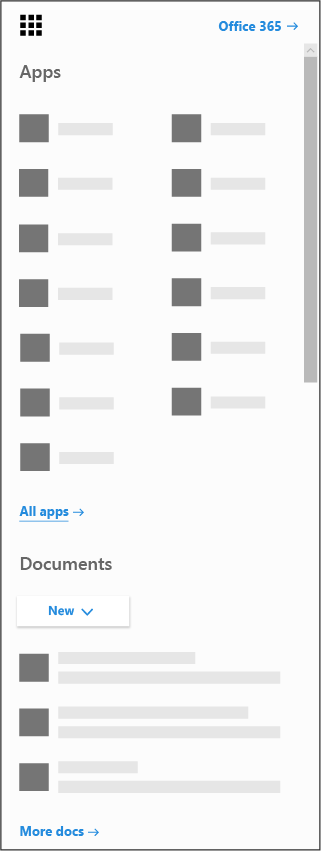
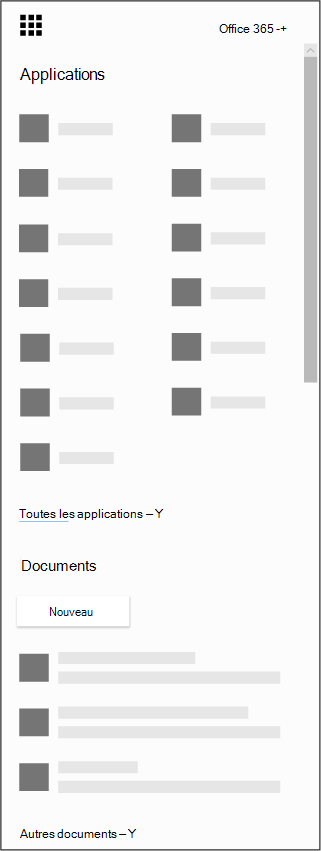
commit translated contents

diff --git a/microsoft-365/enterprise/manage-microsoft-365-groups-with-powershell.md b/microsoft-365/enterprise/manage-microsoft-365-groups-with-powershell.md
@@ -1,5 +1,5 @@
 ---
-title: Gérer Microsoft 365 groupes avec PowerShell
+title: Gérer Groupes Microsoft 365 avec PowerShell
 ms.author: mikeplum
 author: MikePlumleyMSFT
 manager: pamgreen
@@ -23,36 +23,36 @@ search.appverid:
 - BCS160
 ms.assetid: aeb669aa-1770-4537-9de2-a82ac11b0540
 description: Dans cet article, découvrez comment effectuer des tâches de gestion courantes pour Microsoft 365 groupes dans PowerShell.
-ms.openlocfilehash: 460444e1cb2f862f4d96ed6aad0178a146864658
-ms.sourcegitcommit: 355ab75eb7b604c6afbe9a5a1b97ef16a1dec4fc
+ms.openlocfilehash: 407e242728bf37ebf8c11b8094bfa4931229e4ef
+ms.sourcegitcommit: 3226bdf213b290ec5262670873c3a75f17b66ddd
 ms.translationtype: MT
 ms.contentlocale: fr-FR
-ms.lasthandoff: 02/14/2022
-ms.locfileid: "62806443"
+ms.lasthandoff: 05/12/2022
+ms.locfileid: "65372200"
 ---
-# <a name="manage-microsoft-365-groups-with-powershell"></a>Gérer Microsoft 365 groupes avec PowerShell
+# <a name="manage-microsoft-365-groups-with-powershell"></a>Gérer Groupes Microsoft 365 avec PowerShell
 
-*Cet article est valable pour Microsoft 365 Entreprise et Office 365 Entreprise.*
+*Cet article est valable pour Microsoft 365 Entreprise et Office 365 Entreprise.*
 
-Cet article décrit les étapes à suivre pour effectuer des tâches de gestion courantes pour les groupes dans Microsoft PowerShell. Il répertorie également les cmdlets PowerShell pour les groupes. Pour plus d’informations sur la gestion SharePoint sites web, voir [Gérer SharePoint sites en ligne à l’aide de PowerShell](/sharepoint/manage-team-and-communication-sites-in-powershell).
+Cet article décrit les étapes à suivre pour effectuer des tâches de gestion courantes pour les groupes dans Microsoft PowerShell. Il répertorie également les applets de commande PowerShell pour les groupes. Pour plus d’informations sur la gestion des sites SharePoint, consultez [Gérer les sites SharePoint Online à l’aide de PowerShell](/sharepoint/manage-team-and-communication-sites-in-powershell).
 
-## <a name="link-to-your-microsoft-365-groups-usage-guidelines"></a>Lien vers vos recommandations Microsoft 365'utilisation des groupes de sécurité
+## <a name="link-to-your-microsoft-365-groups-usage-guidelines"></a>Lien vers vos instructions d’utilisation de Groupes Microsoft 365
 
-Lorsque les [utilisateurs créent ou modifient un groupe dans Outlook](https://support.office.com/article/04d0c9cf-6864-423c-a380-4fa858f27102.aspx), vous pouvez leur afficher un lien vers les instructions d’utilisation de votre organisation. Par exemple, si vous avez besoin d’ajouter un préfixe ou un suffixe spécifique à un nom de groupe.
+Lorsque les utilisateurs [créent ou modifient un groupe dans Outlook](https://support.office.com/article/04d0c9cf-6864-423c-a380-4fa858f27102.aspx), vous pouvez leur montrer un lien vers les instructions d’utilisation de votre organisation. Par exemple, si vous avez besoin d’ajouter un préfixe ou un suffixe spécifique à un nom de groupe.
 
-Utilisez la Azure Active Directory PowerShell (Azure AD) pour faire pointer vos utilisateurs vers les instructions d’utilisation de votre organisation pour Microsoft 365 groupes. Consultez [Azure Active Directory cmdlets](/azure/active-directory/enterprise-users/groups-settings-cmdlets) pour la configuration des paramètres de groupe et suivez les étapes de la procédure Créer des paramètres au niveau du répertoire pour définir le lien hypertexte des **recommandations** d’utilisation. Une fois que vous avez exécuté AAD cmdlet, les utilisateurs voient le lien vers vos instructions lorsqu’ils créent ou modifient un groupe dans Outlook.
+Utilisez PowerShell Azure Active Directory (Azure AD) pour pointer vos utilisateurs vers les instructions d’utilisation de votre organisation pour Microsoft 365 groupes. Consultez [Azure Active Directory applets de commande pour configurer les paramètres de groupe](/azure/active-directory/enterprise-users/groups-settings-cmdlets) et suivez les **étapes décrites dans les paramètres de création au niveau du répertoire** pour définir le lien hypertexte des instructions d’utilisation. Une fois que vous avez exécuté l’applet de commande AAD, les utilisateurs voient le lien vers vos instructions lorsqu’ils créent ou modifient un groupe dans Outlook.
 
-![Créez un groupe avec le lien Recommandations en matière d’utilisation.](../media/3f74463f-3448-4f24-a0ec-086d9aa95caa.png)
+![Créez un groupe avec le lien des instructions d’utilisation.](../media/3f74463f-3448-4f24-a0ec-086d9aa95caa.png)
 
-![Cliquez sur Recommandations en matière d’utilisation des groupes pour voir vos Office 365 groupes.](../media/d0d54ace-f0ec-4946-b2de-50ce23f17765.png)
+![Cliquez sur Instructions relatives à l’utilisation des groupes pour afficher les instructions de vos organisations Office 365 groupes.](../media/d0d54ace-f0ec-4946-b2de-50ce23f17765.png)
 
-## <a name="allow-users-to-send-as-the-microsoft-365-group"></a>Autoriser les utilisateurs à envoyer en tant que Microsoft 365 groupe
+## <a name="allow-users-to-send-as-the-microsoft-365-group"></a>Autoriser les utilisateurs à envoyer en tant que groupe Microsoft 365
 
-Si vous souhaitez activer vos groupes Microsoft 365 sur « Envoyer en tant que », utilisez les cmdlets [Add-RecipientPermission](/powershell/module/exchange/add-recipientpermission) et [Get-RecipientPermission](/powershell/module/exchange/get-recipientpermission) pour configurer cette configuration. Une fois ce paramètre activé, les Microsoft 365 de groupe peuvent utiliser Outlook ou Outlook sur le web pour envoyer et répondre à des messages électroniques en tant que Microsoft 365 groupe. Les utilisateurs peuvent aller au groupe, créer un e-mail et modifier le champ « Envoyer en tant que » en l’adresse e-mail du groupe.
+Si vous souhaitez autoriser vos groupes Microsoft 365 à « Envoyer sous », utilisez les applets de [commande Add-RecipientPermission](/powershell/module/exchange/add-recipientpermission) et [Get-RecipientPermission](/powershell/module/exchange/get-recipientpermission) pour configurer cela. Une fois ce paramètre activé, Microsoft 365 utilisateurs du groupe peuvent utiliser Outlook ou Outlook sur le web pour envoyer et répondre à un e-mail en tant que groupe Microsoft 365. Les utilisateurs peuvent accéder au groupe, créer un e-mail et remplacer le champ « Envoyer sous » par l’adresse e-mail du groupe.
 
-([Vous pouvez également le faire dans le Exchange Admin Center](/office365/admin/create-groups/allow-members-to-send-as-or-send-on-behalf-of-group).)
+([Vous pouvez également le faire dans le centre d’administration Exchange](/office365/admin/create-groups/allow-members-to-send-as-or-send-on-behalf-of-group).)
 
-Utilisez le script suivant, *\<GroupAlias\>* en remplaçant par l’alias du groupe que vous souhaitez mettre à jour, *\<UserAlias\>* et par l’alias de l’utilisateur auquel vous souhaitez accorder des autorisations. [Connecter à Exchange Online PowerShell pour](/powershell/exchange/connect-to-exchange-online-powershell) exécuter ce script.
+Utilisez le script suivant, en *\<GroupAlias\>* remplaçant par l’alias du groupe à mettre à jour et *\<UserAlias\>* par l’alias de l’utilisateur auquel vous souhaitez accorder des autorisations. [Connecter à Exchange Online PowerShell](/powershell/exchange/connect-to-exchange-online-powershell) pour exécuter ce script.
 
 ```PowerShell
 $groupAlias = "<GroupAlias>"
@@ -62,30 +62,30 @@ $groupsRecipientDetails = Get-Recipient -RecipientTypeDetails groupmailbox -Iden
 Add-RecipientPermission -Identity $groupsRecipientDetails.Name -Trustee $userAlias -AccessRights SendAs
 ```
 
-Une fois la cmdlet exécutée, les utilisateurs peuvent passer à Outlook ou Outlook sur le web pour envoyer en tant que groupe, en ajoutant l’adresse e-mail du groupe au champ  De.
+Une fois l’applet de commande exécutée, les utilisateurs peuvent accéder à Outlook ou Outlook sur le web pour envoyer en tant que groupe, en ajoutant l’adresse e-mail du groupe au champ **From**.
 
-## <a name="create-classifications-for-microsoft-365-groups-in-your-organization"></a>Créer des classifications pour Microsoft 365 groupes de votre organisation
+## <a name="create-classifications-for-microsoft-365-groups-in-your-organization"></a>Créer des classifications pour Groupes Microsoft 365 dans votre organisation
 
-Vous pouvez créer des étiquettes de niveau de sensibilité que les utilisateurs de votre organisation peuvent définir lorsqu’ils créent un Microsoft 365 de données. Si vous souhaitez classer des groupes, nous vous recommandons d’utiliser des étiquettes de niveau de sensibilité plutôt que la fonctionnalité de classification des groupes précédente. Pour plus d’informations sur l’utilisation d’étiquettes de niveau de sensibilité, voir Utiliser des étiquettes de niveau de Microsoft Teams, Microsoft 365 groupes et SharePoint [sites.](../compliance/sensitivity-labels-teams-groups-sites.md)
+Vous pouvez créer des étiquettes de confidentialité que les utilisateurs de votre organisation peuvent définir lorsqu’ils créent un groupe Microsoft 365. Si vous souhaitez classifier des groupes, nous vous recommandons d’utiliser des étiquettes de confidentialité au lieu de la fonctionnalité de classification des groupes précédente. Pour plus d’informations sur l’utilisation d’étiquettes de confidentialité, consultez [Utiliser des étiquettes de confidentialité pour protéger le contenu dans Microsoft Teams, les groupes Microsoft 365 et les sites SharePoint](../compliance/sensitivity-labels-teams-groups-sites.md).
 
 > [!IMPORTANT]
-> Si vous utilisez actuellement des étiquettes de classification, elles ne seront plus disponibles pour les utilisateurs qui créent des groupes une fois les étiquettes de niveau de sensibilité activées.
+> Si vous utilisez actuellement des étiquettes de classification, elles ne seront plus disponibles pour les utilisateurs qui créent des groupes une fois les étiquettes de confidentialité activées.
 
-Vous pouvez toujours utiliser la fonctionnalité de classification de groupes précédente. Vous pouvez créer des classifications que les utilisateurs de votre organisation peuvent définir lorsqu’ils créent Microsoft 365 groupe. Par exemple, vous pouvez autoriser les utilisateurs à définir « Standard », « Secret » et « Top Secret » sur les groupes qu’ils créent. Les classifications de groupe ne sont pas définies par défaut et vous devez la créer pour que vos utilisateurs la définissent. Utilisez Azure Active Directory PowerShell pour faire pointer vos utilisateurs vers les instructions d’utilisation de votre organisation pour Microsoft 365 groupes.
+Vous pouvez toujours utiliser la fonctionnalité de classification des groupes précédents. Vous pouvez créer des classifications que les utilisateurs de votre organisation peuvent définir lorsqu’ils créent un groupe Microsoft 365. Par exemple, vous pouvez autoriser les utilisateurs à définir « Standard », « Secret » et « Top Secret » sur les groupes qu’ils créent. Les classifications de groupe ne sont pas définies par défaut et vous devez la créer pour que vos utilisateurs le définissent. Utilisez Azure Active Directory PowerShell pour pointer vos utilisateurs vers les instructions d’utilisation de votre organisation pour Groupes Microsoft 365.
 
-Consultez [Azure Active Directory cmdlets](/azure/active-directory/users-groups-roles/groups-settings-cmdlets) pour la configuration des paramètres de groupe et suivez les étapes de la procédure Créer des **paramètres** au niveau du répertoire pour définir la classification des groupes Microsoft 365 de groupe.
+Consultez [Azure Active Directory applets de commande pour configurer les paramètres de groupe](/azure/active-directory/users-groups-roles/groups-settings-cmdlets) et suivez les **étapes décrites dans les paramètres de création au niveau du répertoire** pour définir la classification pour Groupes Microsoft 365.
 
 ```powershell
 $setting["ClassificationList"] = "Low Impact, Medium Impact, High Impact"
 ```
 
-Pour associer une description à chaque classification, vous pouvez utiliser l’attribut paramètres  *ClassificationDescriptions* pour définir.
+Pour associer une description à chaque classification, vous pouvez utiliser les attributs de paramètre  *ClassificationDescriptions* à définir.
 
 ```powershell
 $setting["ClassificationDescriptions"] ="Classification:Description,Classification:Description"
 ```
 
-Où Classification correspond aux chaînes dans ClassificationList.
+Où classification correspond aux chaînes dans classificationList.
 
 Exemple :
 
@@ -93,105 +93,111 @@ Exemple :
 $setting["ClassificationDescriptions"] = "Low Impact: General communication, Medium Impact: Company internal data , High Impact: Data that has regulatory requirements"
 ```
 
-Après avoir exécuté l’Azure Active Directory cmdlet ci-dessus pour définir votre classification, exécutez la cmdlet [Set-UnifiedGroup](/powershell/module/exchange/Set-UnifiedGroup) si vous souhaitez définir la classification pour un groupe spécifique.
+Après avoir exécuté l’applet de commande Azure Active Directory ci-dessus pour définir votre classification, exécutez l’applet [de commande Set-UnifiedGroup](/powershell/module/exchange/Set-UnifiedGroup) si vous souhaitez définir la classification pour un groupe spécifique.
 
 ```powershell
 Set-UnifiedGroup <LowImpactGroup@constoso.com> -Classification <LowImpact>
 ```
 
-Vous pouvez également créer un groupe avec une classification.
+Ou créez un groupe avec une classification.
 
 ```powershell
 New-UnifiedGroup <HighImpactGroup@constoso.com> -Classification <HighImpact> -AccessType <Public>
 ```
 
-Consultez [l’utilisation de PowerShell Exchange Online](/powershell/exchange/exchange-online-powershell) et [Connecter pour Exchange Online PowerShell](/powershell/exchange/connect-to-exchange-online-powershell) pour plus d’informations sur l’utilisation Exchange Online PowerShell.
+Pour plus d’informations sur l’utilisation de Exchange Online PowerShell, consultez [l’utilisation de PowerShell avec Exchange Online](/powershell/exchange/exchange-online-powershell) et [Connecter pour Exchange Online PowerShell](/powershell/exchange/connect-to-exchange-online-powershell).
 
-Une fois ces paramètres activés, le propriétaire du groupe peut choisir une classification dans le menu déroulant dans Outlook sur le Web et Outlook, puis l’enregistrer à partir de la page Modifier le groupe.
+Une fois ces paramètres activés, le propriétaire du groupe peut choisir une classification dans le menu déroulant dans Outlook sur le web et Outlook, puis l’enregistrer à partir de la page **Modifier** le groupe.
 
 ![Choisissez Microsoft 365 classification de groupe.](../media/f8d4219a-6180-491d-b0e1-4313ac83998b.png)
 
-## <a name="hide-microsoft-365-groups-from-the-global-address-list"></a>Masquez Microsoft 365 de la liste d’adresses globale.
+## <a name="hide-microsoft-365-groups-from-the-global-address-list"></a>Masquez Groupes Microsoft 365 de la liste d’adresses globale.
 
-Vous pouvez spécifier si un groupe Microsoft 365 apparaît dans la liste d’adresses globale (LAL) et dans d’autres listes de votre organisation. Par exemple, si vous avez un groupe de services juridiques que vous ne souhaitez pas afficher dans la liste d’adresses, vous pouvez empêcher ce groupe d’apparaître dans la liste d’adresses. Exécutez la cmdlet Set-Unified groupe pour masquer le groupe dans la liste d’adresses comme ceci :
+Vous pouvez spécifier si un groupe Microsoft 365 apparaît dans la liste d’adresses globale (GAL) et d’autres listes de votre organisation. Par exemple, si vous avez un groupe de services juridiques que vous ne souhaitez pas afficher dans la liste d’adresses, vous pouvez empêcher ce groupe d’apparaître dans la liste d’adresses. Exécutez l’applet de commande Set-Unified Group pour masquer le groupe de la liste d’adresses comme suit :
 
 ```powershell
 Set-UnifiedGroup -Identity "Legal Department" -HiddenFromAddressListsEnabled $true
 ```
 
-## <a name="allow-only-internal-users-to-send-message-to-microsoft-365-groups"></a>Autoriser uniquement les utilisateurs internes à envoyer des messages à Microsoft 365 groupes
+## <a name="allow-only-internal-users-to-send-message-to-microsoft-365-groups"></a>Autoriser uniquement les utilisateurs internes à envoyer des messages à Groupes Microsoft 365
 
-Si vous ne souhaitez pas que les utilisateurs d’autres organisations envoient des courriers électroniques à un groupe Microsoft 365, vous pouvez modifier les paramètres de ce groupe. Il permet uniquement aux utilisateurs internes d’envoyer un courrier électronique à votre groupe. Si un utilisateur externe tente d’envoyer un message à ce groupe, il est rejeté.
+Si vous ne souhaitez pas que les utilisateurs d’autres organisations envoient des e-mails à un groupe Microsoft 365, vous pouvez modifier les paramètres de ce groupe. Il autorise uniquement les utilisateurs internes à envoyer un e-mail à votre groupe. Si un utilisateur externe tente d’envoyer un message à ce groupe, il est rejeté.
 
-Exécutez lSet-UnifiedGroup cmdlet pour mettre à jour ce paramètre, comme ceci :
+Exécutez l’applet de commande Set-UnifiedGroup pour mettre à jour ce paramètre, comme suit :
 
 ```powershell
 Set-UnifiedGroup -Identity "Internal senders only" -RequireSenderAuthenticationEnabled $true
 ```
 
-## <a name="add-mailtips-to-microsoft-365-groups"></a>Ajouter des mailTips à Microsoft 365 groupes
+## <a name="add-mailtips-to-microsoft-365-groups"></a>Ajouter des info-bulles à Groupes Microsoft 365
 
-Chaque fois qu’un expéditeur tente d’envoyer un message électronique à un groupe Microsoft 365, une boîte aux lettres peut s’affiche.
+Chaque fois qu’un expéditeur tente d’envoyer un e-mail à un groupe Microsoft 365, une info-bulle peut lui être affichée.
 
-Exécutez la cmdlet Set-Unified groupe pour ajouter une mailTip au groupe :
+Exécutez l’applet de commande Set-Unified Group pour ajouter une info-bulle au groupe :
 
 ```powershell
 Set-UnifiedGroup -Identity "MailTip Group" -MailTip "This group has a MailTip"
 ```
 
-En plus de l’tip de courrier, vous pouvez également définir mailTipTranslations, qui spécifient d’autres langues pour l’mailTip. Supposons que vous vouliez avoir la traduction espagnole, puis exécutez la commande suivante :
+Avec MailTip, vous pouvez également définir MailTipTranslations, qui spécifient d’autres langues pour l’info-bulle. Supposons que vous souhaitiez avoir la traduction en espagnol, puis exécutez la commande suivante :
 
 ```powershell
 Set-UnifiedGroup -Identity "MailaTip Group" -MailTip "This group has a MailTip" -MailTipTranslations "@{Add="ES:Esta caja no se supervisa."
 ```
 
-## <a name="change-the-display-name-of-the-microsoft-365-group"></a>Modifier le nom complet du groupe de Microsoft 365
+## <a name="change-the-display-name-of-the-microsoft-365-group"></a>Modifier le nom d’affichage du groupe Microsoft 365
 
-Le nom complet spécifie le nom du groupe Microsoft 365 groupe. Vous pouvez voir ce nom dans votre centre <a href="https://go.microsoft.com/fwlink/p/?linkid=2059104" target="_blank">d’administration Exchange ou</a> dans <a href="https://go.microsoft.com/fwlink/p/?linkid=2024339" target="_blank">votre Centre d'administration Microsoft 365</a>. Vous pouvez modifier le nom complet du groupe ou attribuer un nom complet à un groupe Microsoft 365 existant en exécutant la commande Set-UnifiedGroup:
+Le nom complet spécifie le nom du groupe Microsoft 365. Vous pouvez voir ce nom dans votre <a href="https://go.microsoft.com/fwlink/p/?linkid=2059104" target="_blank">centre d’administration ou</a> <a href="https://go.microsoft.com/fwlink/p/?linkid=2024339" target="_blank">Centre d'administration Microsoft 365</a> Exchange. Vous pouvez modifier le nom d’affichage du groupe ou attribuer un nom d’affichage à un groupe Microsoft 365 existant en exécutant la commande Set-UnifiedGroup :
 
 ```powershell
 Set-UnifiedGroup -Identity "mygroup@contoso.com" -DisplayName "My new group"
 ```
 
-## <a name="change-the-default-setting-of-microsoft-365-groups-for-outlook-to-public-or-private"></a>Modifier le paramètre par défaut de Microsoft 365 groupes pour Outlook public ou privé
+## <a name="change-the-default-setting-of-microsoft-365-groups-for-outlook-to-public-or-private"></a>Modifier le paramètre par défaut de Groupes Microsoft 365 pour Outlook en public ou privé
 
-Microsoft 365 groupes dans Outlook sont créés comme privés par défaut. Si votre organisation souhaite créer Microsoft 365 groupes publics par défaut (ou de nouveau en privé), utilisez la syntaxe de l’cmdlet PowerShell suivante :
+Groupes Microsoft 365 dans Outlook sont créées comme privées par défaut. Si votre organisation souhaite que Groupes Microsoft 365 soit créé en tant que public par défaut (ou revenir à Private), utilisez la syntaxe de l’applet de commande PowerShell :
 
- `Set-OrganizationConfig -DefaultGroupAccessType Public`
+ ```powershell
+ Set-OrganizationConfig -DefaultGroupAccessType Public
+ ```
 
 Pour définir sur Privé :
 
- `Set-OrganizationConfig -DefaultGroupAccessType Private`
+ ```powershell
+ Set-OrganizationConfig -DefaultGroupAccessType Private
+ ```
 
 Pour vérifier le paramètre :
 
- `Get-OrganizationConfig | ft DefaultGroupAccessType`
+ ```powershell
+ Get-OrganizationConfig | ft DefaultGroupAccessType
+ ```
 
-Pour plus d’informations, [voir Set-OrganizationConfig](/powershell/module/exchange/set-organizationconfig) et [Get-OrganizationConfig](/powershell/module/exchange/get-organizationconfig).
+Pour plus d’informations, consultez [Set-OrganizationConfig](/powershell/module/exchange/set-organizationconfig) et [Get-OrganizationConfig](/powershell/module/exchange/get-organizationconfig).
 
-## <a name="microsoft-365-groups-cmdlets"></a>Microsoft 365 cmdlets de groupes
+## <a name="microsoft-365-groups-cmdlets"></a>applets de commande Groupes Microsoft 365
 
-Les cmdlets suivantes peuvent être utilisées avec Microsoft 365 groupes.
+Les applets de commande suivantes peuvent être utilisées avec Groupes Microsoft 365.
 
 |**Nom de l'applet de commande**|**Description**|
 |:-----|:-----|
-|[Get-UnifiedGroup](/powershell/module/exchange/get-unifiedgroup) <br/> |Utilisez cette cmdlet pour rechercher des groupes Microsoft 365 existants et pour afficher les propriétés de l’objet groupe  <br/> |
+|[Get-UnifiedGroup](/powershell/module/exchange/get-unifiedgroup) <br/> |Utilisez cette applet de commande pour rechercher des Groupes Microsoft 365 existants et afficher les propriétés de l’objet de groupe  <br/> |
 |[Set-UnifiedGroup](/powershell/module/exchange/set-unifiedgroup) <br/> |Mettre à jour les propriétés d’un groupe Microsoft 365 spécifique  <br/> |
-|[New-UnifiedGroup](/powershell/module/exchange/new-unifiedgroup) <br/> |Créez un groupe Microsoft 365'équipe. Cette cmdlet fournit un ensemble minimal de paramètres. Pour définir des valeurs pour les propriétés étendues, utilisez Set-UnifiedGroup après la création du nouveau groupe  <br/> |
+|[New-UnifiedGroup](/powershell/module/exchange/new-unifiedgroup) <br/> |Créez un groupe Microsoft 365. Cette applet de commande fournit un ensemble minimal de paramètres. Pour définir des valeurs pour les propriétés étendues, utilisez Set-UnifiedGroup après la création du groupe  <br/> |
 |[Remove-UnifiedGroup](/powershell/module/exchange/remove-unifiedgroup) <br/> |Supprimer un groupe de Microsoft 365 existant  <br/> |
-|[Get-UnifiedGroupLinks](/powershell/module/exchange/get-unifiedgrouplinks) <br/> |Récupérer les informations d’appartenance et de propriétaire d’Microsoft 365 groupe  <br/> |
+|[Get-UnifiedGroupLinks](/powershell/module/exchange/get-unifiedgrouplinks) <br/> |Récupérer les informations d’appartenance et de propriétaire d’un groupe Microsoft 365  <br/> |
 |[Add-UnifiedGroupLinks](/powershell/module/exchange/add-unifiedgrouplinks) <br/> |Ajouter des membres, des propriétaires et des abonnés à un groupe Microsoft 365 existant <br/> |
-|[Remove-UnifiedGroupLinks](/powershell/module/exchange/remove-unifiedgrouplinks) <br/> |Supprimer des propriétaires et des membres d’un groupe Microsoft 365 existant  <br/> |
-|[Get-UserPhoto](/powershell/module/exchange/get-userphoto) <br/> |Utilisé pour afficher les informations sur la photo de l’utilisateur associée à un compte. Les photos de l’utilisateur sont stockées dans Active Directory  <br/> |
-|[Set-UserPhoto](/powershell/module/exchange/set-userphoto) <br/> |Utilisé pour associer une photo d’utilisateur à un compte. Les photos de l’utilisateur sont stockées dans Active Directory  <br/> |
-|[Remove-UserPhoto](/powershell/module/exchange/remove-userphoto) <br/> |Supprimer la photo d’un groupe Microsoft 365 de recherche  <br/> |
+|[Remove-UnifiedGroupLinks](/powershell/module/exchange/remove-unifiedgrouplinks) <br/> |Supprimer des propriétaires et des membres d’un groupe de Microsoft 365 existant  <br/> |
+|[Get-UserPhoto](/powershell/module/exchange/get-userphoto) <br/> |Permet d’afficher des informations sur la photo d’utilisateur associée à un compte. Les photos des utilisateurs sont stockées dans Active Directory  <br/> |
+|[Set-UserPhoto](/powershell/module/exchange/set-userphoto) <br/> |Permet d’associer une photo d’utilisateur à un compte. Les photos des utilisateurs sont stockées dans Active Directory  <br/> |
+|[Remove-UserPhoto](/powershell/module/exchange/remove-userphoto) <br/> |Supprimer la photo d’un groupe Microsoft 365  <br/> |
 
 ## <a name="related-topics"></a>Voir aussi
 
-[Mettre à niveau les listes de distribution Microsoft 365 groupes](/office365/admin/manage/upgrade-distribution-lists)
+[Mettre à niveau les listes de distribution vers Groupes Microsoft 365](/office365/admin/manage/upgrade-distribution-lists)
 
 [Gérer les personnes autorisées à créer des groupes Microsoft 365](/office365/admin/create-groups/manage-creation-of-groups)
 
-[Gérer l’accès invité à Microsoft 365 groupes](https://support.office.com/article/bfc7a840-868f-4fd6-a390-f347bf51aff6)
+[Gérer l’accès invité à Groupes Microsoft 365](https://support.office.com/article/bfc7a840-868f-4fd6-a390-f347bf51aff6)
 
-[Modifier l’appartenance à un groupe statique en dynamique dans](/azure/active-directory/users-groups-roles/groups-change-type)
+[Modifier l’appartenance à un groupe statique en mode dynamique](/azure/active-directory/users-groups-roles/groups-change-type)

diff --git a/microsoft-365/security/defender-endpoint/corelight-integration.md b/microsoft-365/security/defender-endpoint/corelight-integration.md
@@ -16,18 +16,18 @@ audience: ITPro
 ms.collection: M365-security-compliance
 ms.topic: article
 ms.technology: mde
-ms.openlocfilehash: a3d7548dc71c3a9d588d2a77fae5c4ed71f139f4
-ms.sourcegitcommit: 4cd8be7c22d29100478dce225dce3bcdce52644d
+ms.openlocfilehash: 629d475c160d5836d155ca0374630ad64b0928b4
+ms.sourcegitcommit: 3226bdf213b290ec5262670873c3a75f17b66ddd
 ms.translationtype: MT
 ms.contentlocale: fr-FR
-ms.lasthandoff: 05/10/2022
-ms.locfileid: "65302314"
+ms.lasthandoff: 05/12/2022
+ms.locfileid: "65372018"
 ---
 # <a name="enable-corelight-data-integration"></a>Permettre l'intégration des données Corelight
 
 [!INCLUDE [Microsoft 365 Defender rebranding](../../includes/microsoft-defender.md)]
 
-**S’applique à :**
+**S’applique à :**
 
 - [Microsoft Defender pour point de terminaison](https://go.microsoft.com/fwlink/?linkid=2154037)
 - [Microsoft 365 Defender](https://go.microsoft.com/fwlink/?linkid=2118804)
@@ -67,7 +67,7 @@ Pour activer l’intégration de Corelight, vous devez effectuer les étapes sui
 ### <a name="step-3-configure-your-corelight-appliance-to-send-data-to-microsoft-365-defender"></a>Étape 3 : Configurer votre appliance Corelight pour envoyer des données à Microsoft 365 Defender
 
 > [!NOTE]
-> L’intégration est disponible dans corelight Sensor software v24 et versions ultérieures.
+> L’intégration est disponible dans corelight Sensor software v25 et versions ultérieures.
 > 
 > Vous aurez besoin d’une connectivité Internet pour que votre capteur atteigne les services cloud Defender et Corelight pour que la solution fonctionne.
 

diff --git a/microsoft-365/bookings/bookings-in-outlook.md b/microsoft-365/bookings/bookings-in-outlook.md
@@ -9,12 +9,12 @@ ms.service: bookings
 ms.localizationpriority: medium
 ROBOTS: NO INDEX, NO FOLLOW
 description: Utilisez Bookings dans Outlook pour permettre à d’autres personnes de planifier des réunions avec vous dans Outlook.
-ms.openlocfilehash: 9f8e1c4428133dce6f6ec9e539464271abfd8ffd
-ms.sourcegitcommit: 35d0c891f3d927f3346044be61ab9f348e8da2b4
+ms.openlocfilehash: fe7a680ec5980ab1526d4ccb5f80514210bc3605
+ms.sourcegitcommit: 3226bdf213b290ec5262670873c3a75f17b66ddd
 ms.translationtype: MT
 ms.contentlocale: fr-FR
 ms.lasthandoff: 05/12/2022
-ms.locfileid: "65364278"
+ms.locfileid: "65372163"
 ---
 # <a name="bookings-in-outlook"></a>Bookings dans Outlook
 
@@ -58,7 +58,7 @@ Utilisez les commandes **Get-OrganizationConfig** et **Set-OrganizationConfig** 
 1. Vérifiez l’accès au contrôle EWS en exécutant la commande suivante.
 
    ```PowerShell
-   Get-Organizationconfig | Format-List EwsEnabled
+   Get-OrganizationConfig | Format-List EwsEnabled
    ```
 
     Si la commande retourne « EwsEnabled : **$true** », passez à l’étape 2.
